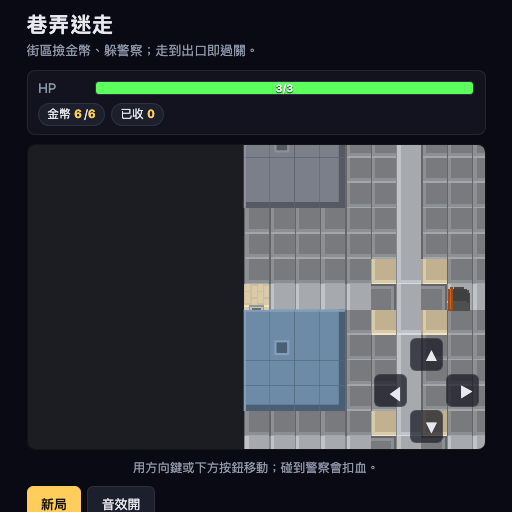
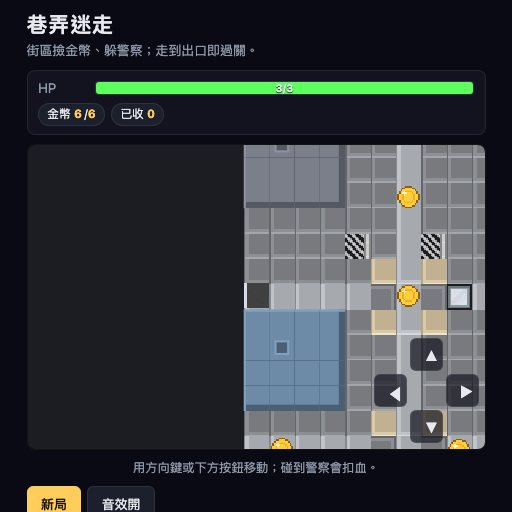
fix: player = human sprite, ellipse gold coin
- player: replace misidentified vehicle/other sprites with the actual human
  figure from the pack (tile 0795, green-clothed person); no directional
  variants (pack people are neutral standing) — use walk bob instead
- coin: self-drawn round gold coin (face, inner ring, highlight) since the
  pack has no coin sprite
- update ATTRIBUTION (player 0795; coin self-drawn); regenerate thumbnail

diff --git a/app.js b/app.js
@@ -34,19 +34,15 @@ const TILE_FILES = {
   [CAR_BLUE]:     "car_blue.png",
   [COIN]:         "coin.png",
   [EXIT]:         "goal.png",
-  [PLAYER]:       "player_down.png",
+  [PLAYER]:       "player.png",
   [POLICE]:       "police.png",
 };
-const PLAYER_FILES = {
-  up: "player_up.png",
-  down: "player_down.png",
-  left: "player_left.png",
-  right: "player_right.png",
-};
+// 玩家單一站立小人（本 pack 人物無朝向），改用走路 bob 動畫
+const PLAYER_FILE = "player.png";
 // 要載入的所有 tiles
 const TILE_FILES_FOR_LOAD = Array.from(new Set([
   ...Object.values(TILE_FILES),
-  ...Object.values(PLAYER_FILES),
+  PLAYER_FILE,
 ]));
 
 const el = {
@@ -247,12 +243,16 @@ function draw() {
     if (img) ctx.drawImage(img, state.policePx.x - TILE / 2, state.policePx.y - TILE / 2, TILE, TILE);
   }
 
-  // 玩家（4 方向）
+  // 玩家（站立小人 + 走路 bob）
   {
-    const face = state.d.player.face || "down";
-    const file = PLAYER_FILES[face] || "player_down.png";
-    const img = tileImgs[file];
-    if (img) ctx.drawImage(img, state.playerPx.x - TILE / 2, state.playerPx.y - TILE / 2, TILE, TILE);
+    const img = tileImgs[PLAYER_FILE];
+    if (img) {
+      // 走路時上下輕微跳動
+      const moving = state.playerPx.x !== state.playerTarget.x
+        || state.playerPx.y !== state.playerTarget.y;
+      const bob = moving ? Math.sin(state.anim * 0.3) * 1.2 : 0;
+      ctx.drawImage(img, state.playerPx.x - TILE / 2, state.playerPx.y - TILE / 2 + bob, TILE, TILE);
+    }
   }
 
   ctx.restore();

diff --git a/ATTRIBUTION.md b/ATTRIBUTION.md
@@ -6,8 +6,8 @@
 
 | 來源 | 作者 | 授權 |
 | --- | --- | --- |
-| `assets/tiles/road_plain.png`(0017)、`road_main.png`(0019)、`crosswalk_v.png`(0009)、`crosswalk_h.png`(0053)、`sidewalk.png`(0045)、`curb.png`(0061)、`tree.png`(0685)、`car_red.png`(0693)、`car_blue.png`(0694)、`police.png`(0718)、`coin.png`(0990)、`player_{up,down,left,right}.png`(0855/0859/0863/0867) | Kenney (www.kenney.nl) | CC0 1.0 |
-| `assets/tiles/goal.png`（出口旗） | 本專案自繪（程序產生） | 同專案 MIT |
+| `assets/tiles/road_plain.png`(0017)、`road_main.png`(0019)、`crosswalk_v.png`(0009)、`crosswalk_h.png`(0053)、`sidewalk.png`(0045)、`curb.png`(0061)、`tree.png`(0685)、`car_red.png`(0693)、`car_blue.png`(0694)、`police.png`(0718)、`player.png`(0795 綠衣行人) | Kenney (www.kenney.nl) | CC0 1.0 |
+| `assets/tiles/coin.png`（圓形金幣）、`goal.png`（出口旗） | 本專案自繪（程序產生） | 同專案 MIT |
 
 來源：https://kenney.nl/assets/roguelike-modern-city
 
